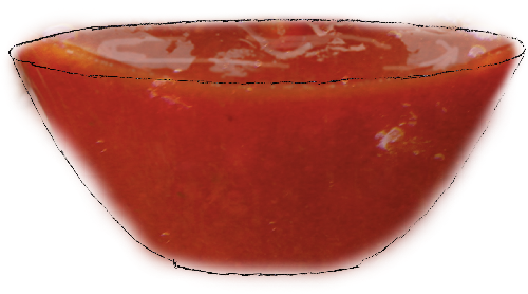
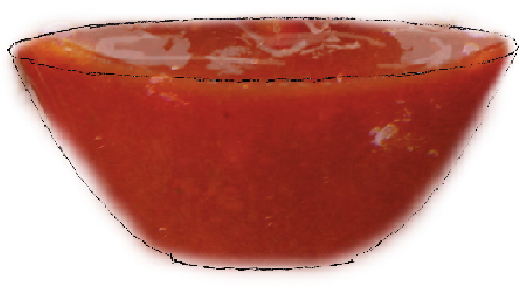
Hopla

diff --git a/web/gaspacho/style.css b/web/gaspacho/style.css
@@ -22,10 +22,12 @@ body {
 
 .content {
 
-    padding-top: 150px;
+    padding-top: 100px;
     width: 1024px;
     height: 768px;
 }
+
+
 
 h1 {
 font-family: 'Special Elite';
@@ -133,20 +135,20 @@ font-size:18px;
 
 #bol {
     background-image: url('images/bol.png');
-    background-position: 2px 76px;
+    background-position: 2px 12px;
     background-repeat: no-repeat;
     background-size: contain;
-    width: 454px;
-    height: 303px;
+    width: 629px;
+    height: 400px;
 }
 
 #bol div.tomate {
     background-image: url('images/remplissage/tomate.png');
-    background-position: center;
+    background-position: 2px 12px;
     background-repeat: no-repeat;
     background-size: contain;
-    width: 100%;
-    height: 100%;
+    width: 629px;
+    height: 400px;
 }
 
 #bol div.lentille {

diff --git a/web/gaspacho/default.php b/web/gaspacho/default.php
@@ -107,7 +107,7 @@ include( '../default/page/start_header.php' );
                         <div class="row-fluid">
                             <div id="assaisonement container" class="col-md-offset-1 col-md-11">
                                 <h2 style=color:#B54643;>Assaisonnement</h2>
-                                <p>(choisir quatres assaisonements)</p>
+                                <p>(choisir cinq assaisonements)</p>
 
                                 <div class="col-sm-6 col-md-6 col-lg-6 ingredient"
                                      onclick="afficher(this,'assaisonement','citron');"
